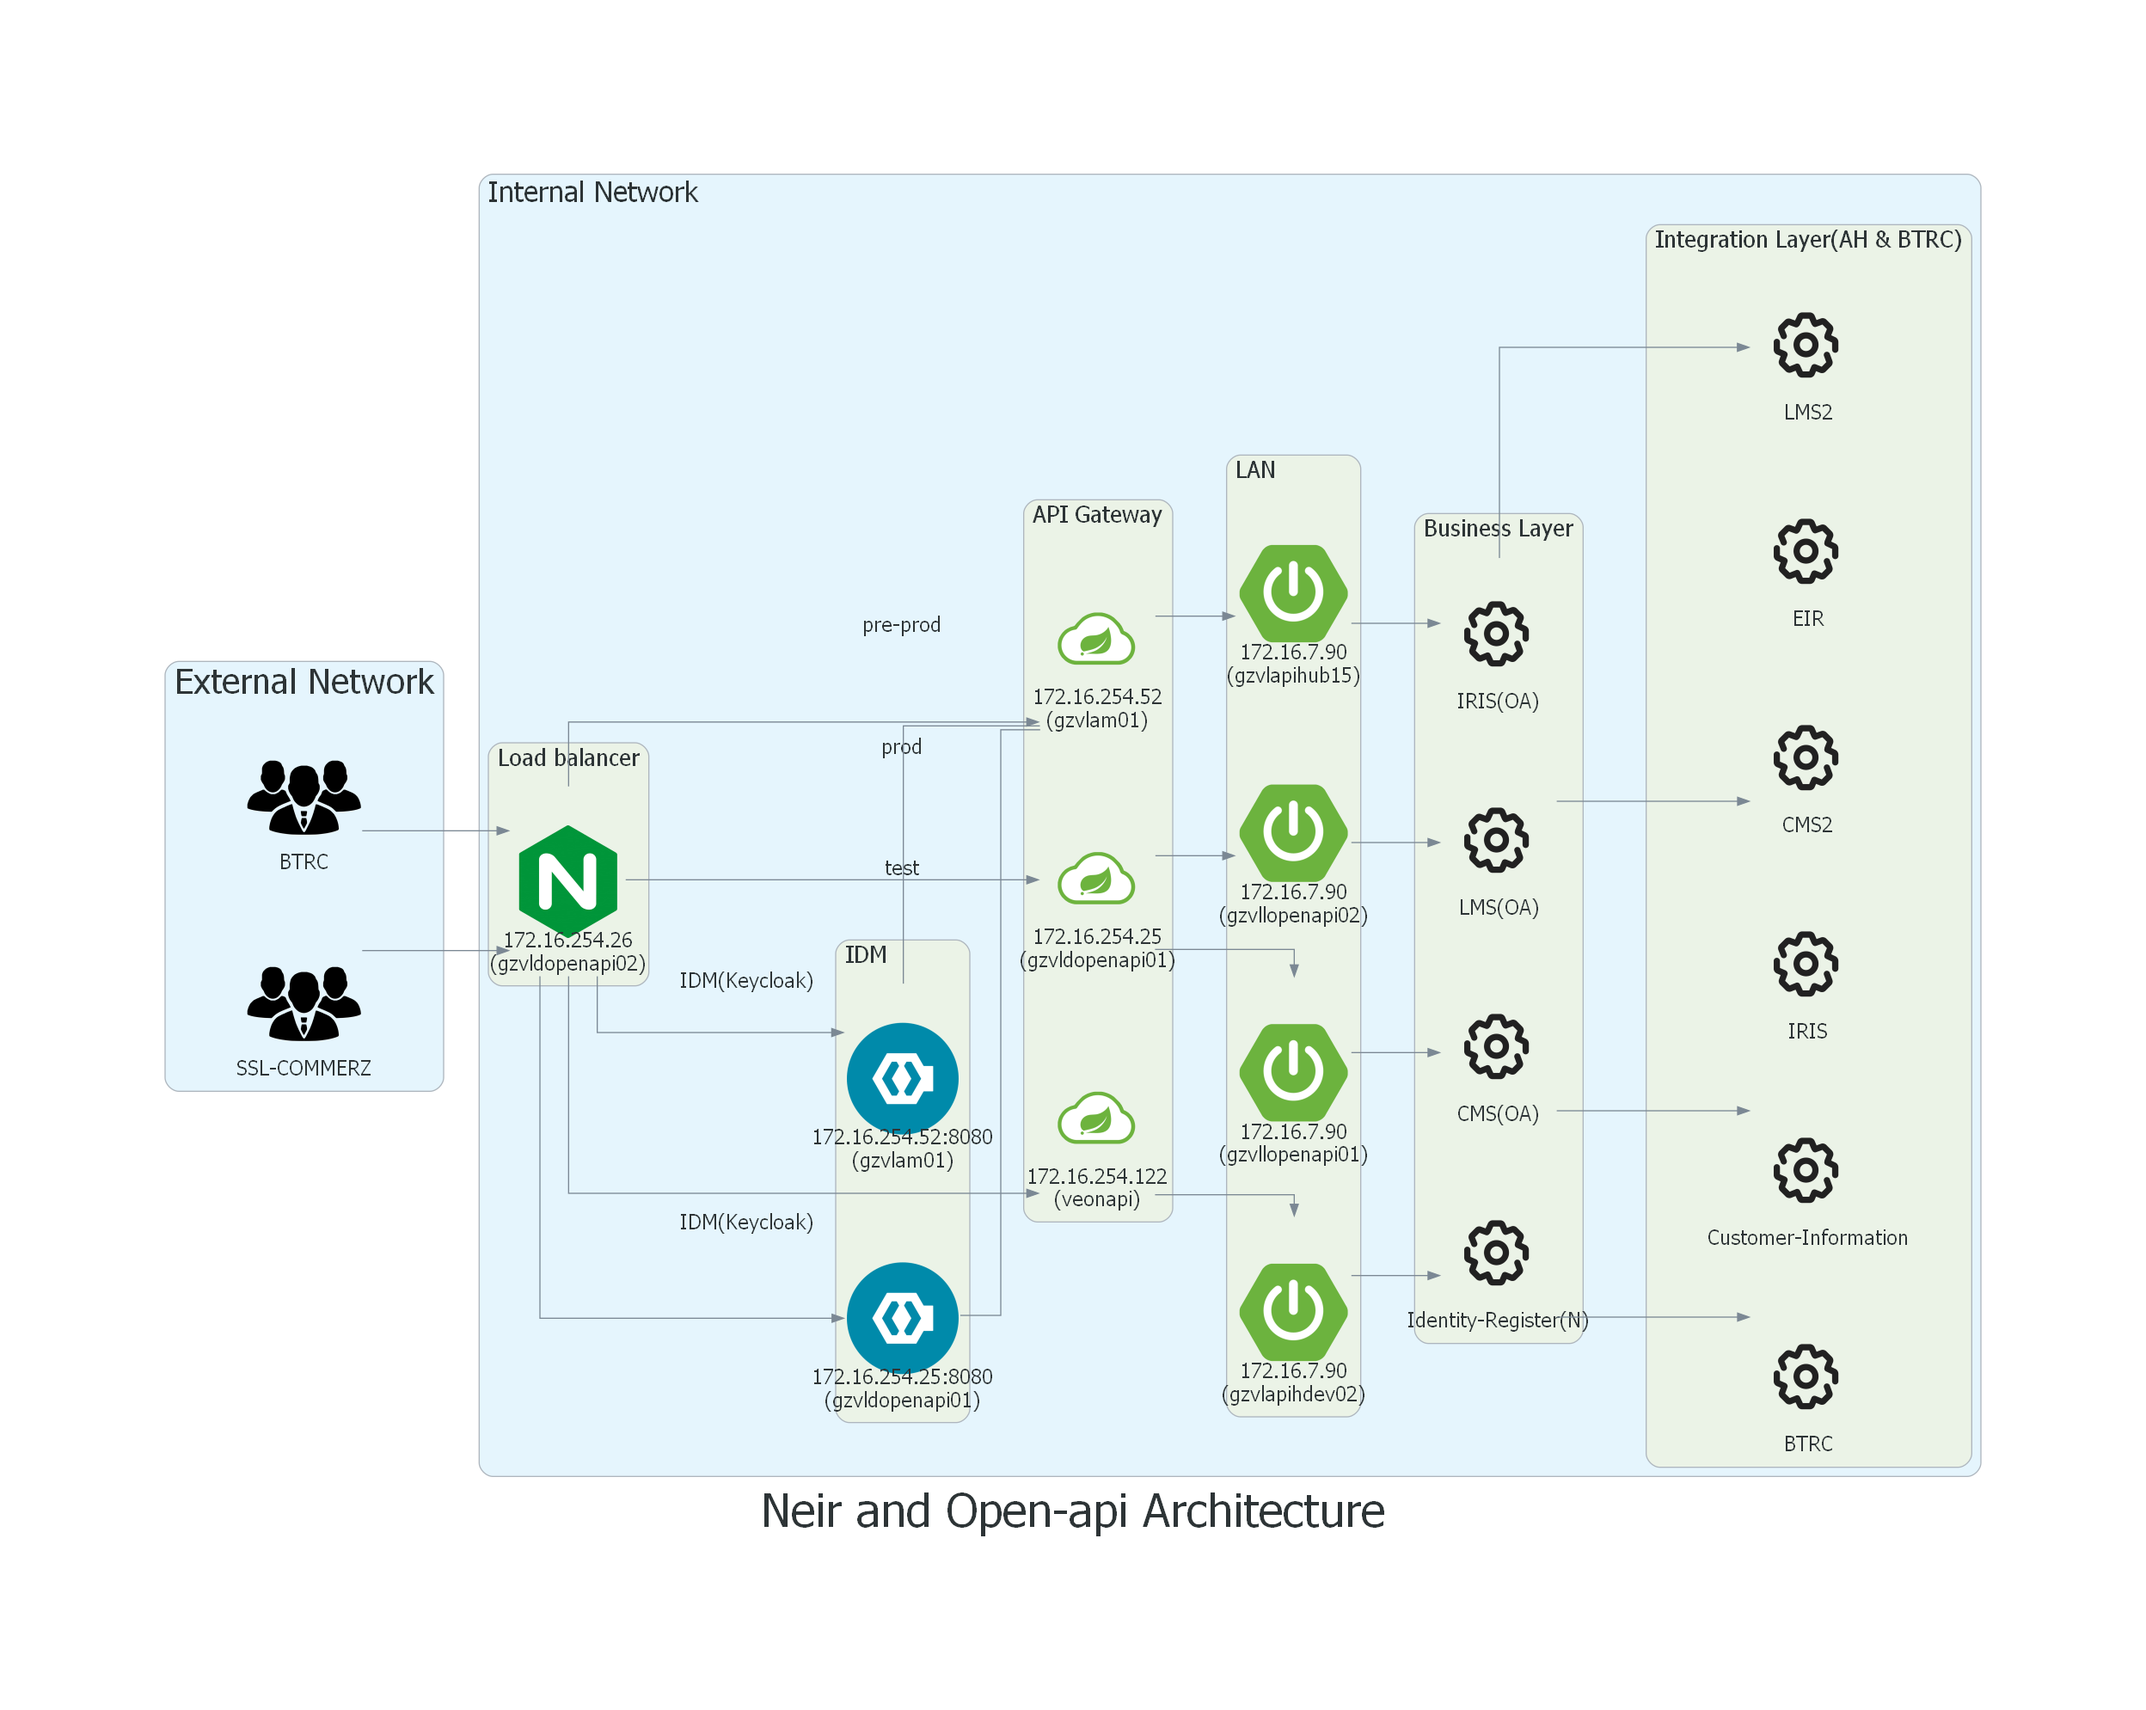
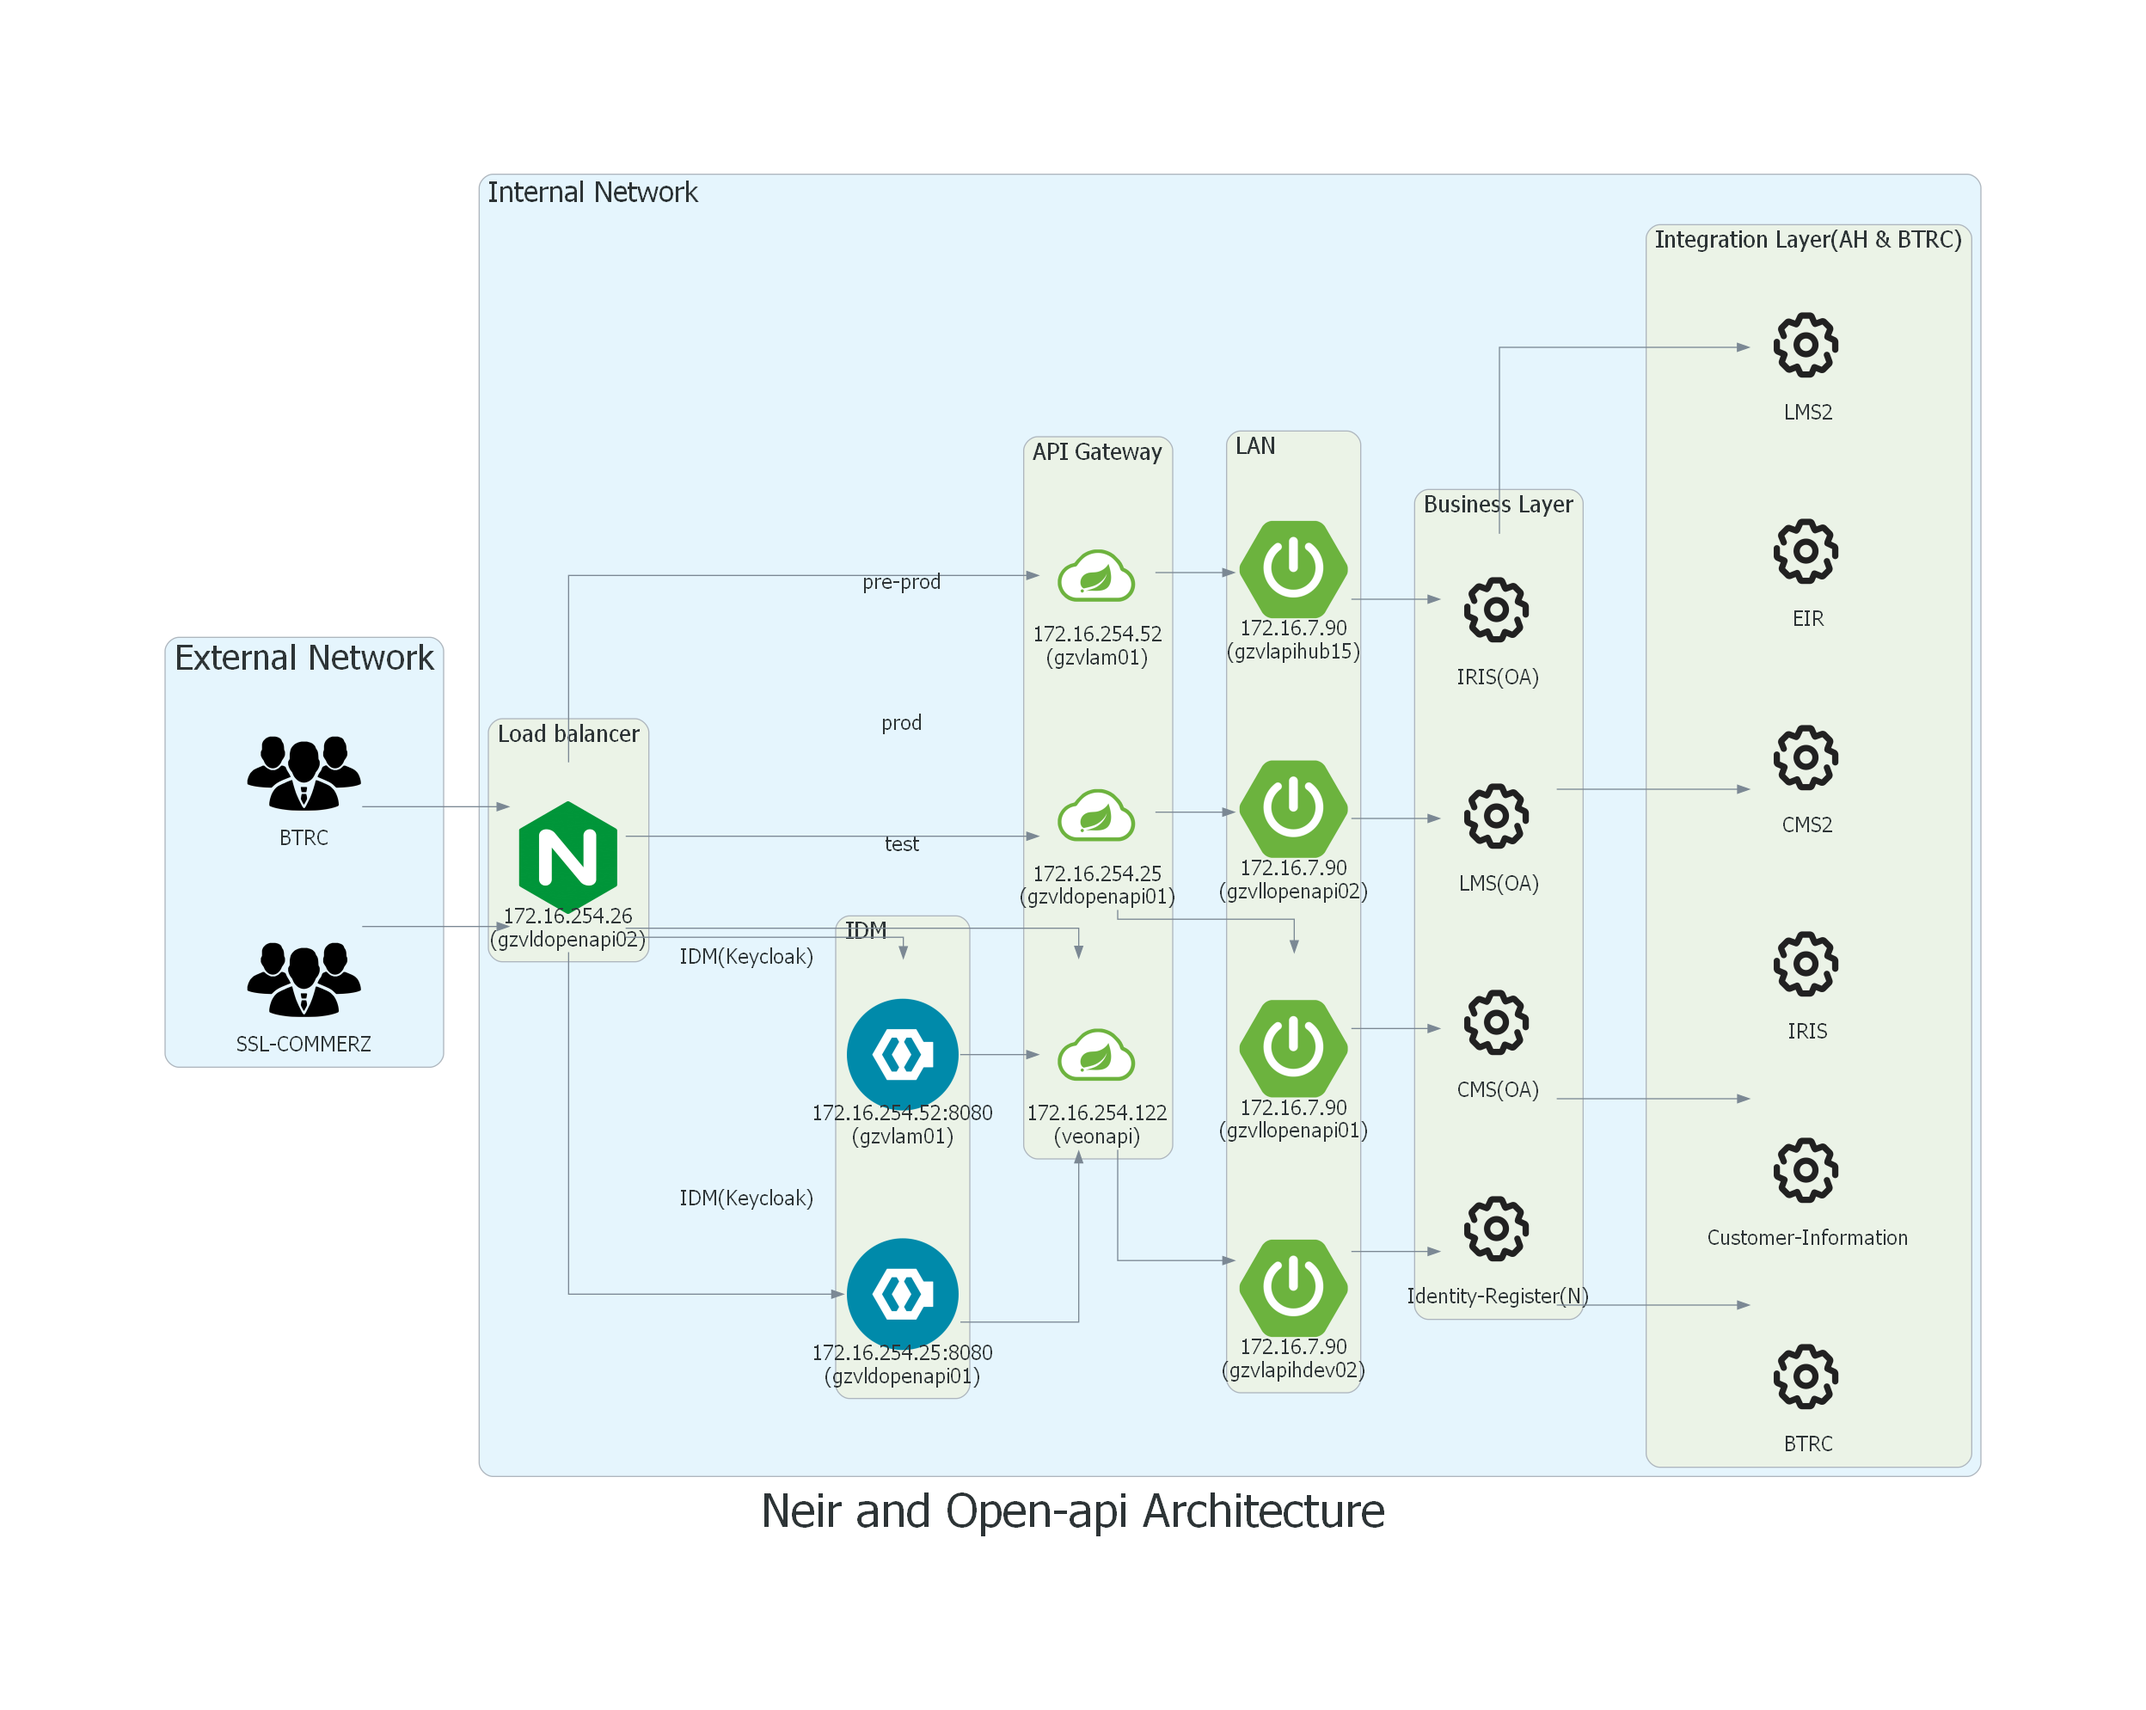
update 15

diff --git a/ruff.py b/ruff.py
@@ -1,14 +1,16 @@
-from diagrams import Cluster, Diagram
+from diagrams import Diagram, Cluster
 from diagrams.aws.compute import EC2
-from diagrams.aws.database import RDS
-from diagrams.aws.network import VPC
+from diagrams.aws.network import ELB
 
-with Diagram("Example Diagram", show=False):
-    with Cluster("VPC"):
-        with Cluster("Private Subnet", label="Database Servers"):
-            rds = RDS("Example RDS Instance")
+with Diagram("Example Diagram"):
 
-        with Cluster("Public Subnet"):
-            # ... add resources to public subnet cluster ...
+    with Cluster("Cluster 1"):
+        ec2_1 = EC2("EC2 1")
+        ec2_2 = EC2("EC2 2")
 
-        VPC("Example VPC") >> Cluster("Database Servers", group="databases") >> rds
+    with Cluster("Cluster 2"):
+        elb = ELB("ELB")
+
+    # Set color attribute of the edge to transparent
+    ec2_1 >> elb >> ec2_2 << elb << ec2_1
+    elb.color = "transparent"

diff --git a/FinalDiagram.py b/FinalDiagram.py
@@ -86,6 +86,7 @@ with Diagram("Neir and Open-api Architecture", show=True,graph_attr=graph_attr):
     lb >> Edge(label="test",fontsize="18px")>> apiG >> lan1
     lb >> Edge(label="prod",fontsize="18px")>> apiG1
     lb >> Edge(label="pre-prod",fontsize="18px")>> apiG2 >> lan4
+    idm >> apiG
     apiG1 >> lan2
     apiG1 >> lan3
     lan1 >> bl1
